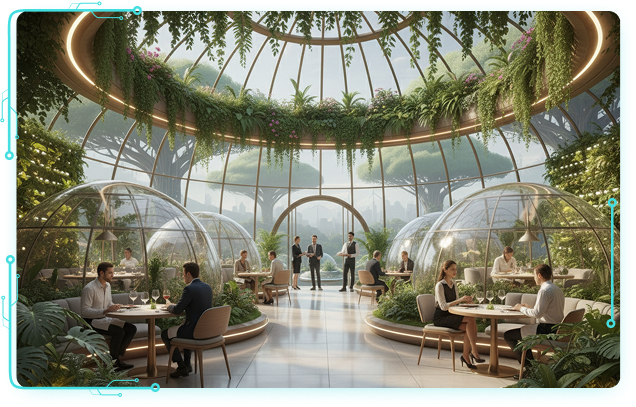
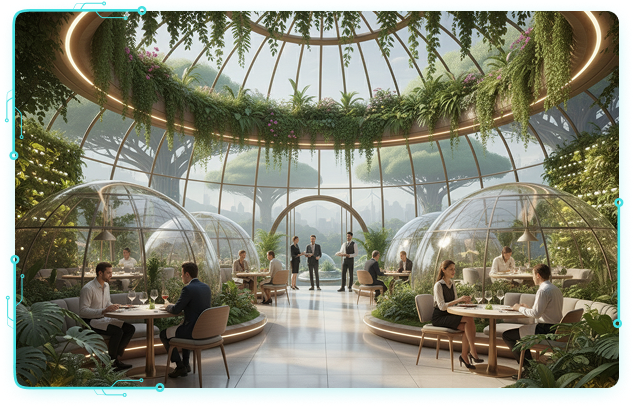
modifiche

diff --git a/styles/style.css b/styles/style.css
@@ -309,7 +309,7 @@ p {
 
     /* Background: Grigio scuro trasparente con riflesso centrale */
     background: radial-gradient(50% 50% at 50% 50%, rgba(255, 255, 255, 0.15) 0%, rgba(0, 0, 0, 0.00) 100%),
-        rgba(60, 60, 60, 0.40);
+        rgba(94, 94, 94, 0.4);
 
     /* Effetto Glass (Luci e Ombre interne) */
     box-shadow: -5px 5px 8.5px 0 rgba(255, 255, 255, 0.15) inset,
@@ -330,24 +330,9 @@ p {
     transition: all 0.3s ease;
 }
 
-/* Effetto al passaggio del mouse -> fa hover su una classe che non esiste... se non serve a nessuno lo cancello 
-.btn-glass-grey:hover {
-    background-color: rgba(80, 80, 80, 0.60);
-    box-shadow: 0 0 20px rgba(255, 255, 255, 0.10);
-    color: white;
-}*/
-
-/*Anche questo mi sembra inutile
-.btn-layout {
-    color: white;
-    font-weight: bold;
-    cursor: pointer;
-    transition: transform 0.2s ease, background 0.2s;
-
-    appearance: none;
-    background-color: var(--colore-button);
-}*/
-
+.label-piatti {
+    
+}
 
 /*Label h3 per sezioni menù e fasi sostenibilita*/
 .label-h3 {

diff --git a/menu.html b/menu.html
@@ -687,7 +687,7 @@
                 <img src="/images/menu/antipasto2.webp" 
                   alt="gemme di verdure su letto di crauti luminescenti"
                   title="Gemme di Zenith - Verdure di stagione a km zero" />
-                <span class="menu-card-label label-custom">Gemme di Zenith</span>
+                <span class="menu-card-label label-custom label-piatti">Gemme di Zenith</span>
               </div>
               <!-- TESTO -->
               <div class="menu-card-text">